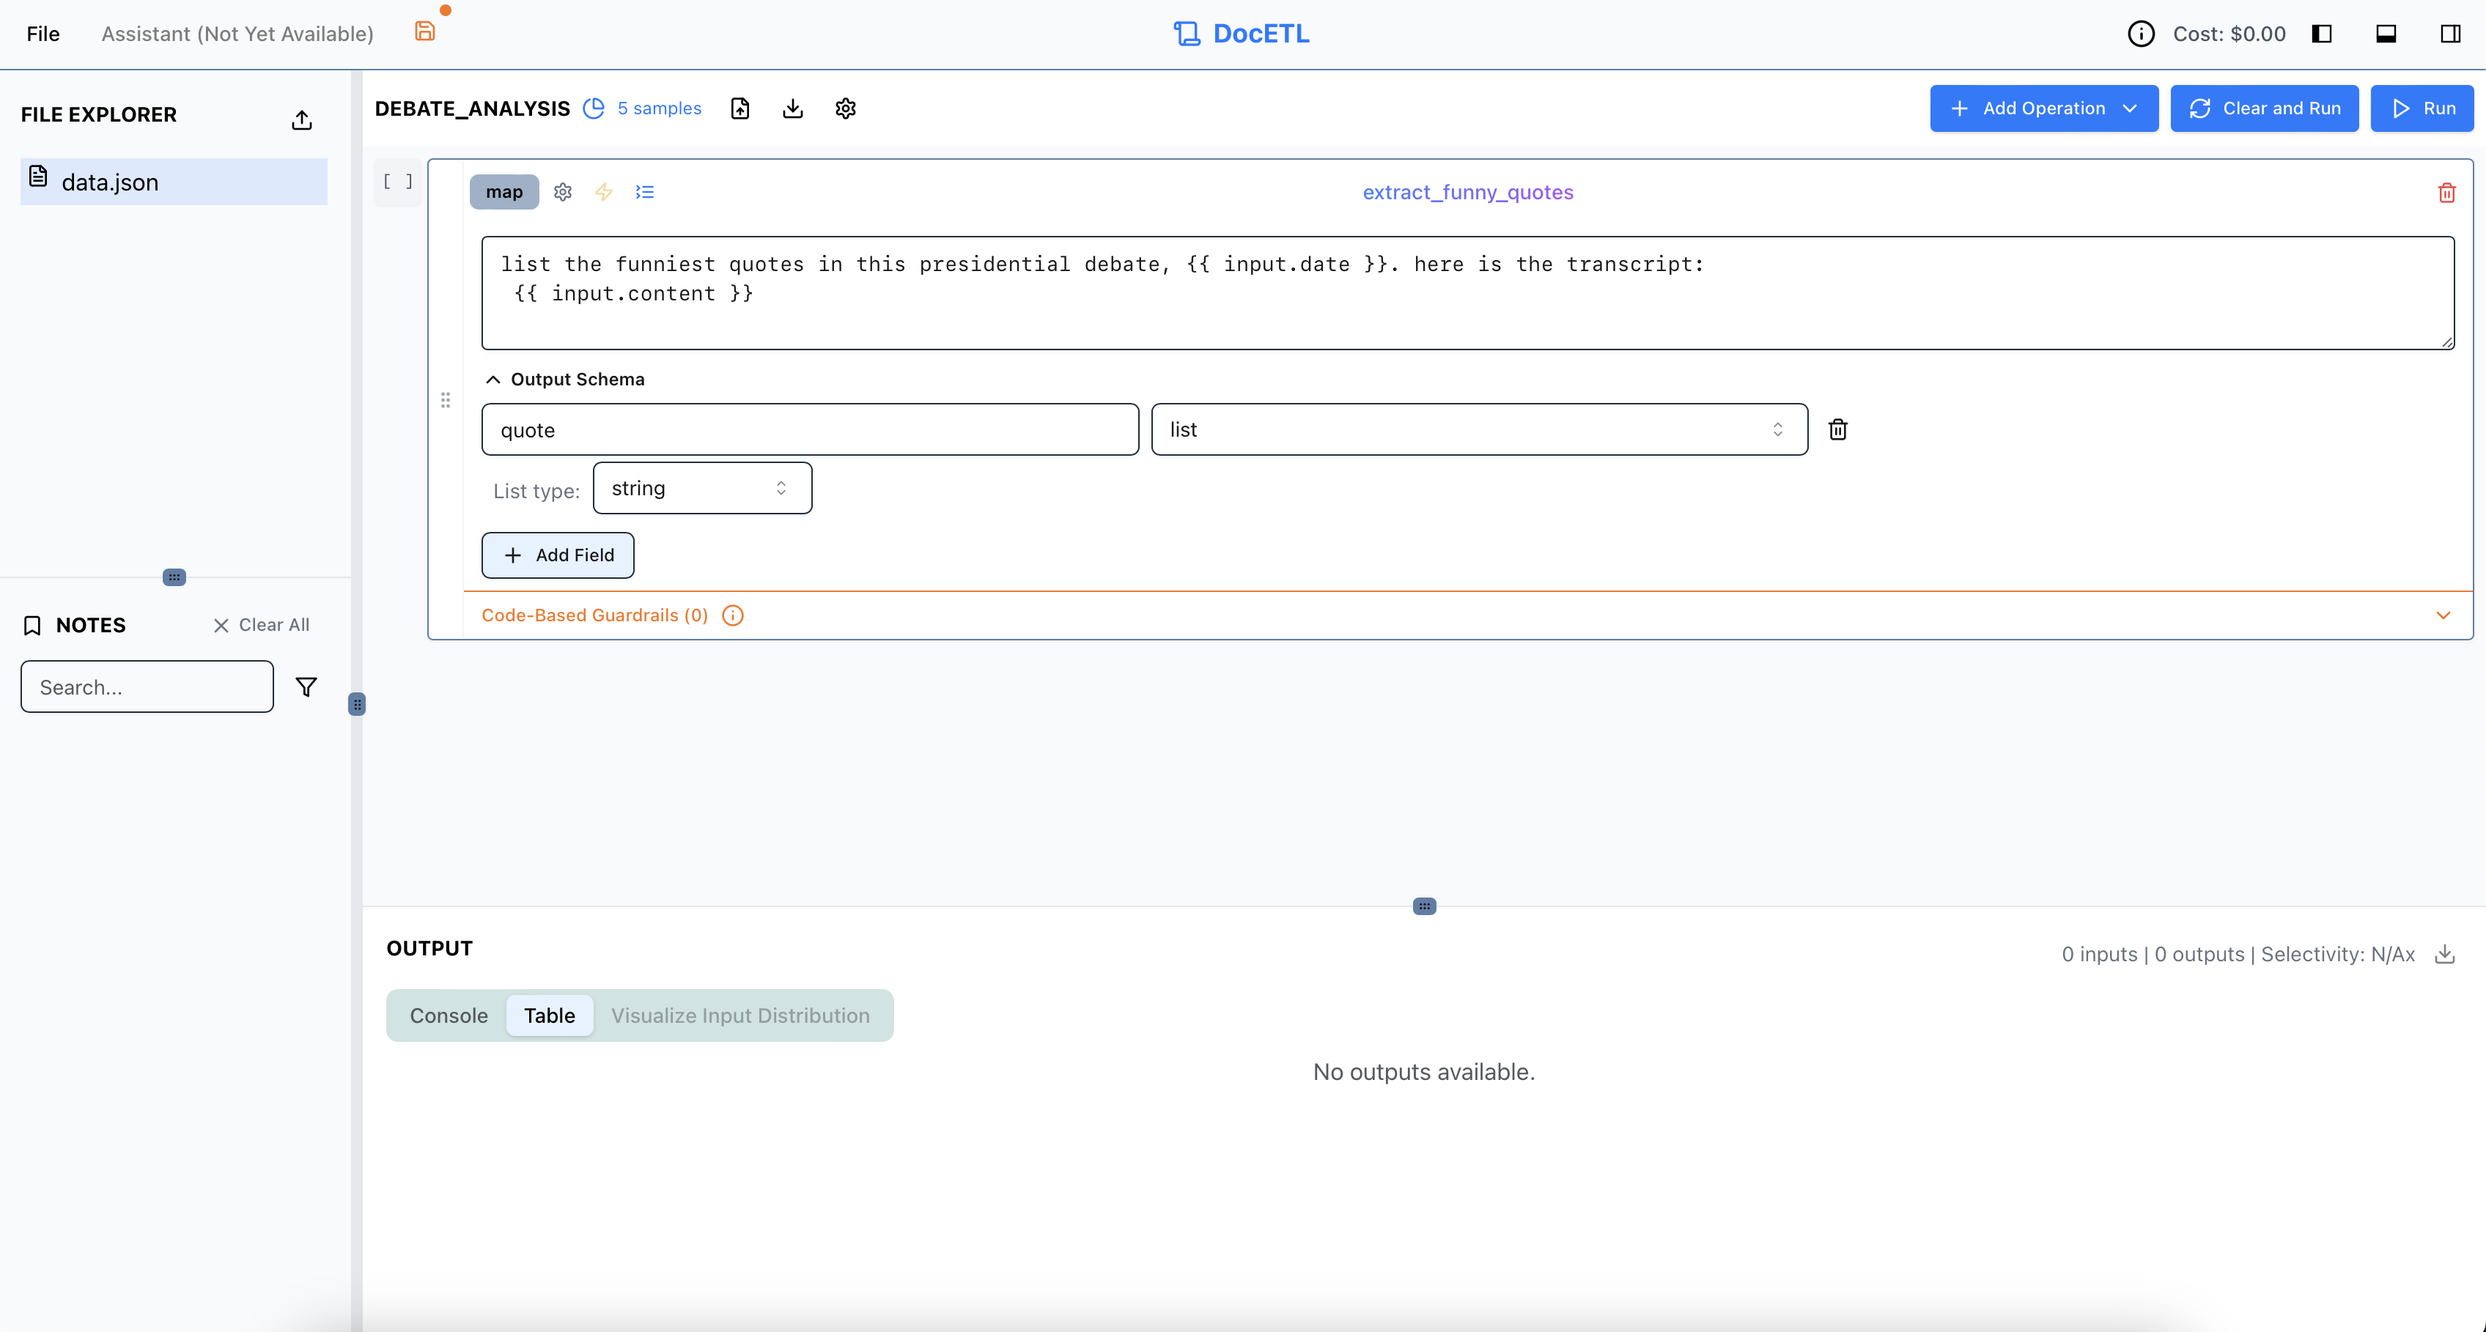
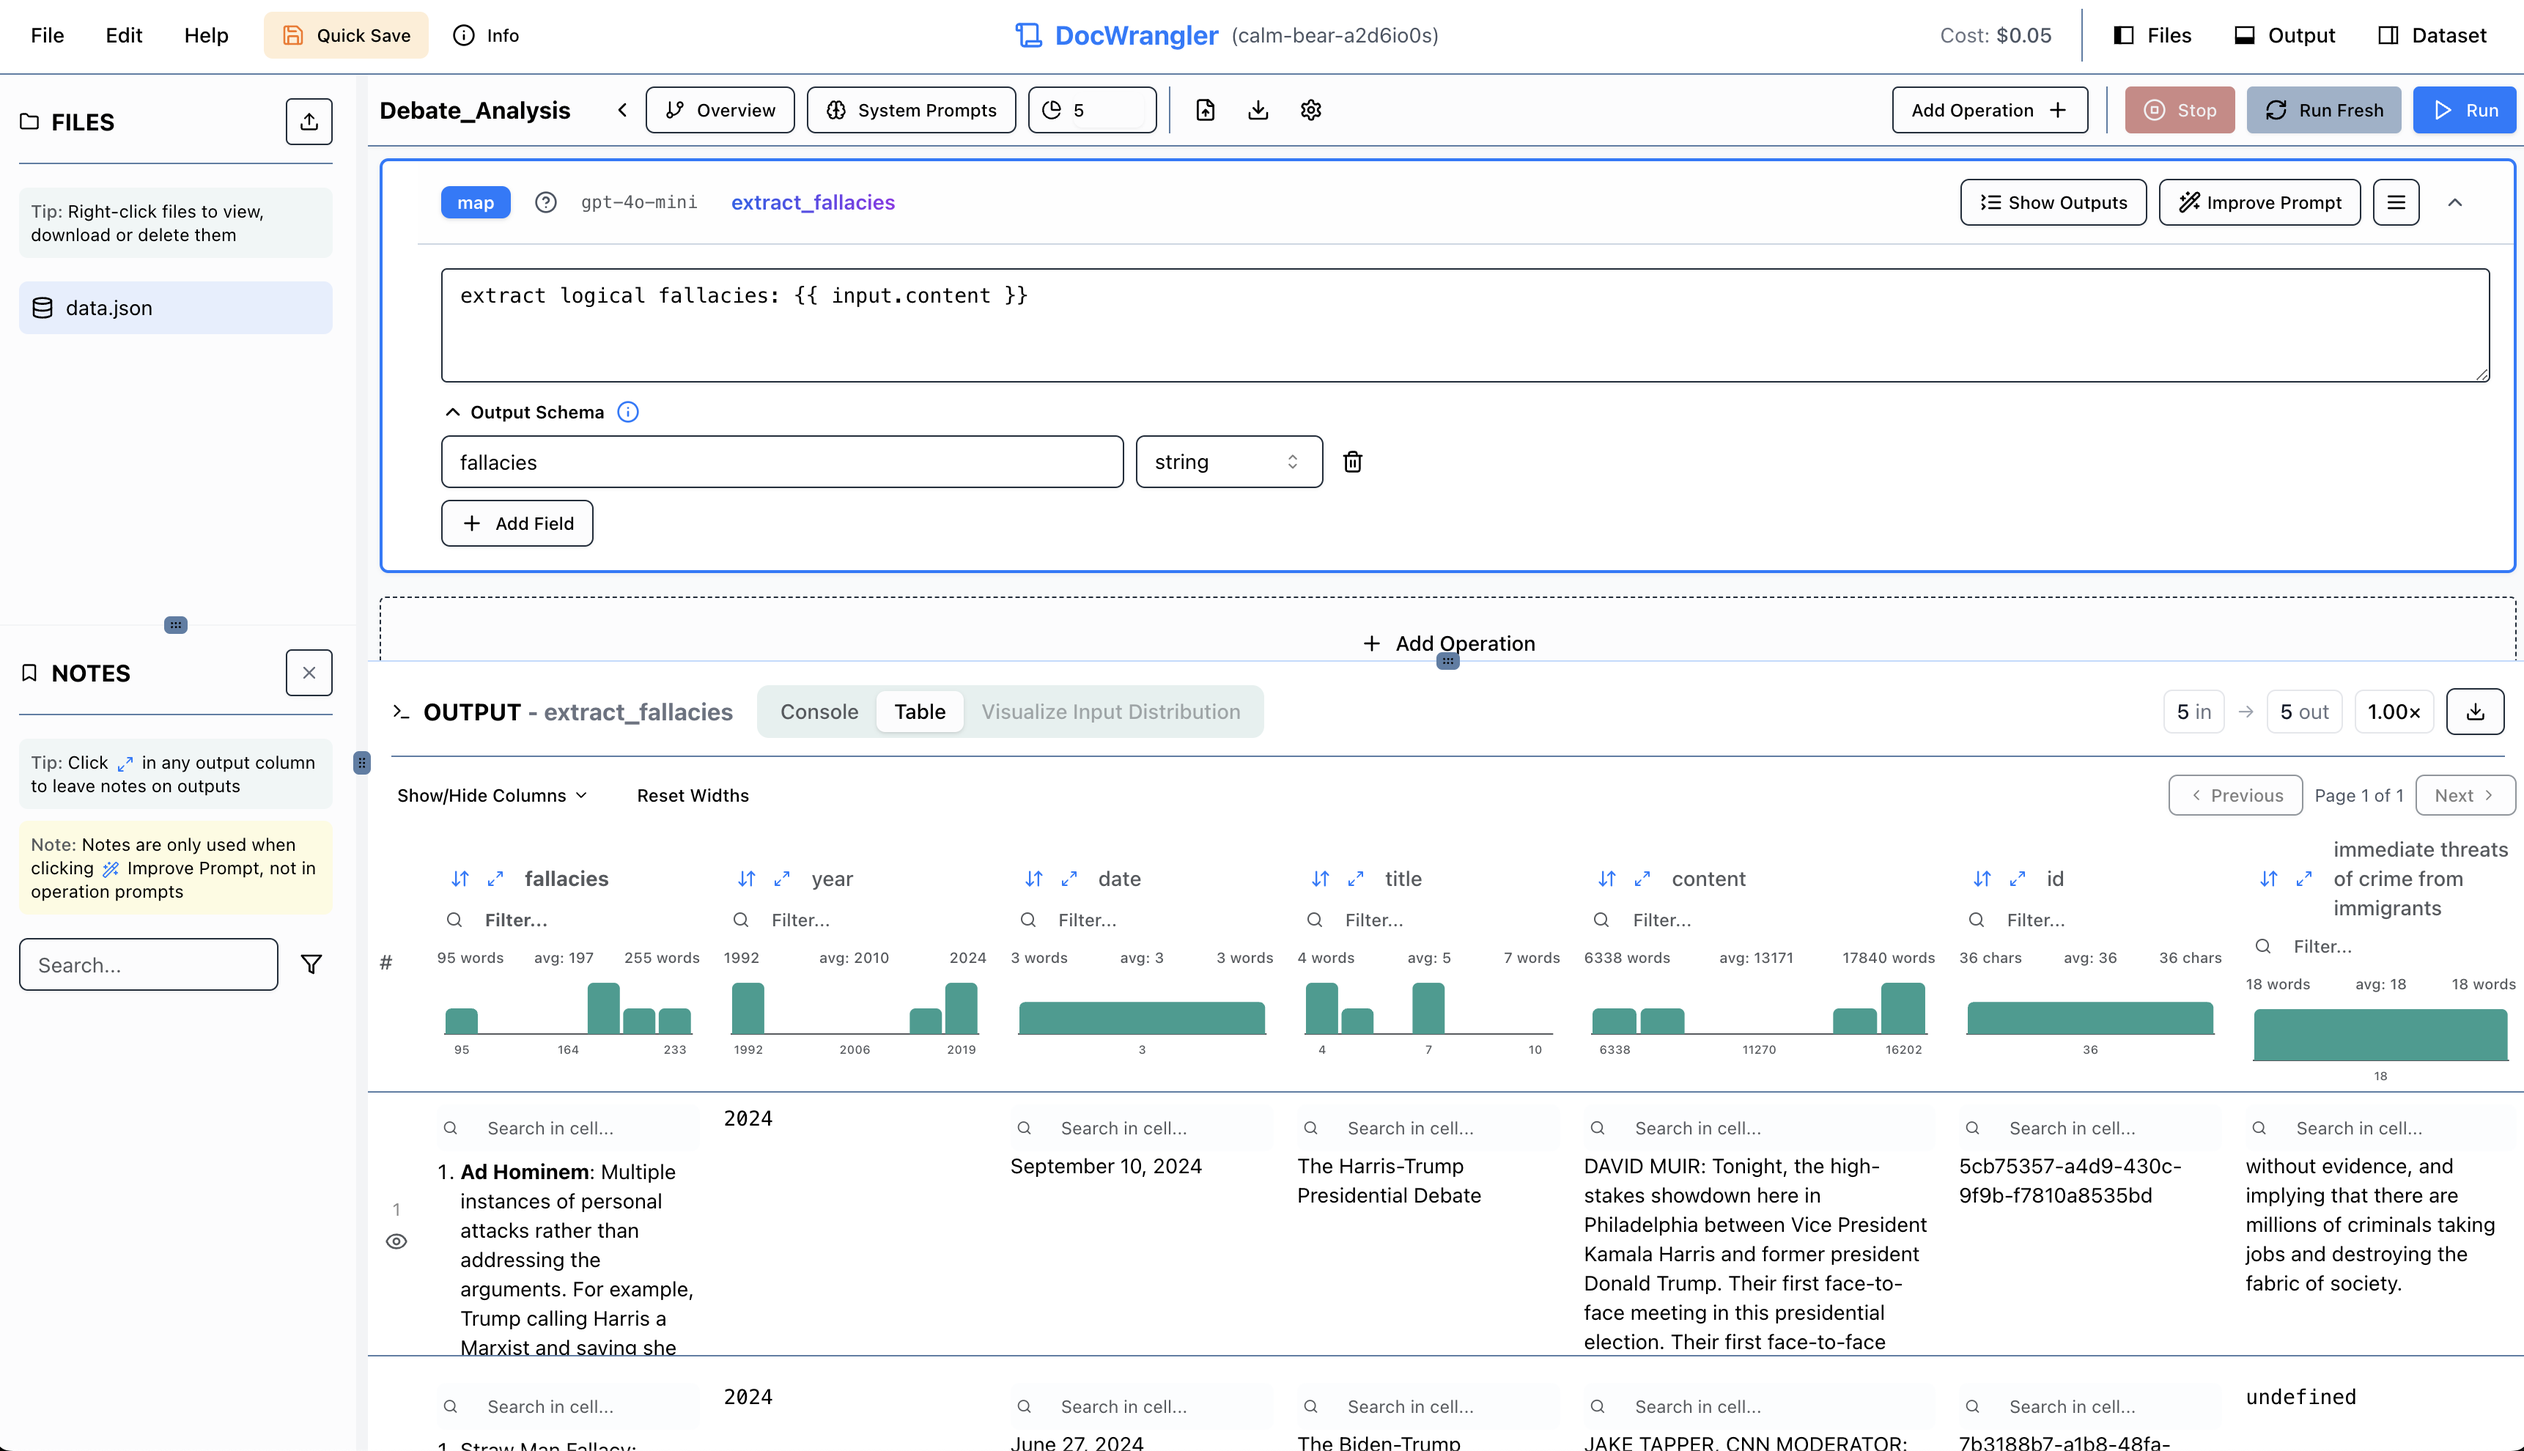
docs: update playground docs

diff --git a/docs/playground/tutorial.md b/docs/playground/tutorial.md
@@ -17,19 +17,11 @@ You can view the data by clicking the "toggle dataset view" button in the top ri
 
 ![Dataset View](../../assets/tutorial/dataset-view.png)
 
-## Step 2: Examine the Example Operation
+## Step 2: Add a Map Operation
 
-You'll notice there's already an example operation called `extract_funny_quotes`. This is a Map operation that processes each debate transcript to extract funny or memorable quotes.
+The pipeline is set to run on a sample of 5 documents, as indicated by the sample icon next to the pipeline name. This sampling helps us quickly test and iterate on our prompts without processing the entire dataset. This can be changed.
 
-The pipeline is set to run on a sample of 5 documents, as indicated by the sample icon next to the pipeline name. This sampling helps us quickly test and iterate on our prompts without processing the entire dataset.
-
-To adjust the sample size or change other pipeline settings like the default language model:
-
-1. Click the gear (⚙) button next to the pipeline name
-2. Modify the sample size or other settings as needed
-3. Save your changes
-
-If you expand the operation details, you'll see the output schema is configured to produce a list of quote strings.
+We'll add a map operation that processes each debate transcript to extract logical fallacies. Click the "Add Operation" button in the top right corner of the screen, and select "Map" under the LLM section. You can set the operation name to "extract_fallacies", and write a prompt and output schema. 
 
 ![Operation Details](../../assets/tutorial/operation-details.png)
 
@@ -40,27 +32,36 @@ Click the "Run" button to execute the pipeline. The outputs panel will show two 
 - **Console**: Displays progress information and any potential errors
 - **Table**: Shows the extracted funny quotes from each document in a table, as well as the other key/value pairs in the document. Here's what the table looks like after running the pipeline:
 
-![Pipeline Outputs](../../assets/tutorial/initial-quotes.png)
+![Pipeline Outputs](../../assets/tutorial/initial-outputs.png)
 
 You can resize the rows and columns in the table by clicking and dragging the edges of the table cells, as in the image above. You can also rezise the outputs panel by clicking and dragging the top edge of the panel.
 
 ## Step 4: Iterate on the Prompt
 
-After reviewing the initial outputs, we might want to improve the results. For example, maybe we want more context around each quote to better understand why it's funny or memorable.
+After reviewing the initial outputs, let's inspect them row by row to identify areas for improvement. Click the expand icon next to any column to see the full content.
 
-We can modify the prompt to request additional context. Click on the operation to edit its prompt, adding instructions like:
+We can modify the prompt to request additional context based on what we observe in the data. Here are some general patterns that could use improvement:
 
-- Include a brief explanation of why each quote is funny/memorable
-- Add surrounding context from the debate
-- Note which candidates were involved
+- Some quotes lack sufficient background context
+- Speaker information could be more detailed
+- The reasoning behind why quotes are memorable isn't always clear
+- Time and setting details are often missing
+- Impact and reactions to quotes aren't consistently captured
 
-Each time you modify the prompt, you can quickly test it on the sample documents to see if the results improve. Here's an example of what the outputs might look like after modifying the prompt:
+Here's an example of what giving notes might look like:
 
-![Modified Quotes](../../assets/tutorial/v2-quotes.png)
+![Feedback](../../assets/tutorial/add-notes.png)
 
-Remember to save your progress using the save button in the top left corner! This will save the current state of the pipeline, including any changes you've made to the prompt or other settings, such that if you refresh the page, you'll still see the same pipeline and results.
+Once you've added enough notes (3-5 or more), you can click on the "Improve Prompt" button in the top right corner of the operation card. This will invoke the DocWrangler Prompt Improvement Assistant, which will suggest edits to your prompt:
+
+![Prompt Improvement](../../assets/tutorial/prompt-improvement.png)
+
+Once you're satisfied with the new prompt, click "Save" to update the operation, and then you can rerun the pipeline to see the new outputs.
+
+![Prompt v2](../../assets/tutorial/prompt-v2.png)
 
 !!! note "Caching Behavior"
+
     DocETL automatically caches the outputs of each operation. This means that if you run the pipeline multiple times without changing the operations, it will use the cached results instead of reprocessing the documents. This is especially helpful when:
 
     - Iterating on downstream operations in a multi-step pipeline
@@ -71,26 +72,12 @@ Remember to save your progress using the save button in the top left corner! Thi
 
     If you want to bypass the cache and force recomputation, you can click the "Clear and Run" button instead of the regular "Run" button.
 
-!!! tip "Taking Notes"
-    You can highlight any text in the outputs panel to save it as a note. This is useful for:
-    
-    - Marking interesting quotes or patterns you want to revisit
-    - Collecting examples of where the prompt works well (or needs improvement)
-    
-    Selected text will be saved to the Notes panel, which you can access by clicking the "Notes" tab in the outputs section. Notes persist to local storage, so they will be available the next time you visit the playground. 
-    
-    We are also working on the Assistant, which will use notes to steer your operation prompts towards better results.
-
-
 
 ## Step 5: Run the Pipeline on the Entire Dataset
 
 Once you're satisfied with your prompt, you can run the pipeline on the entire dataset. First, clear the sample size by clicking on the settings or gear icon next to the pipeline name. 
 
-Then, click the "Run" button again. This will process all documents and update the outputs panel with the results. Here's what the outputs might look like after running the pipeline on the full dataset (the console view and table view are shown below):
-
-![Full Dataset Console](../../assets/tutorial/console.png)
-![Full Dataset Outputs](../../assets/tutorial/all-outputs.png)
+Then, click the "Run" button again. This will process all documents and update the outputs panel with the results. 
 
 You can export the results to a CSV file by clicking the "download" button in the top right corner of the outputs panel, near where it says "Selectivity: 1.00x". The selectivity is the ratio of the number of documents in the output to the number of documents in the input for that operation. In this case, since we ran the pipeline on the full dataset, the selectivity is 1.0x.
 

diff --git a/README.md b/README.md
@@ -29,16 +29,16 @@ DocETL is a tool for creating and executing data processing pipelines, especiall
 
 There are two main ways to use DocETL:
 
-### 1. 🎮 Interactive UI Playground (Recommended for Development)
+### 1. 🎮 DocWrangler, the Interactive UI Playground (Recommended for Development)
 
-The [UI Playground](https://ucbepic.github.io/docetl/playground/) helps you iteratively develop your pipeline:
+[DocWrangler](https://docetl.org/playground) helps you iteratively develop your pipeline:
 - Experiment with different prompts and see results in real-time
 - Build your pipeline step by step
 - Export your finalized pipeline configuration for production use
 
-![DocETL Playground](docs/assets/tutorial/playground-screenshot.png)
+![DocWrangler](docs/assets/tutorial/one-operation.png)
 
-To run the playground locally, you can either:
+DocWrangler is hosted at [docetl.org/playground](https://docetl.org/playground). But to run the playground locally, you can either:
 - Use Docker (recommended for quick start): `make docker`
 - Set up the development environment manually
 
@@ -63,13 +63,13 @@ OPENAI_API_KEY=your_api_key_here  # Required for LLM operations (or the key for 
 
 To see examples of how to use DocETL, check out the [tutorial](https://ucbepic.github.io/docetl/tutorial/).
 
-### 2. 🎮 UI Playground Setup
+### 2. 🎮 DocWrangler Setup
 
-To run the UI playground locally, you have two options:
+To run DocWrangler locally, you have two options:
 
 #### Option A: Using Docker (Recommended for Quick Start)
 
-The easiest way to get the playground running:
+The easiest way to get the DocWrangler playground running:
 
 1. Create the required environment files:
 

diff --git a/website/README.md b/website/README.md
@@ -1,4 +1,4 @@
-This is a [Next.js](https://nextjs.org) project bootstrapped with [`create-next-app`](https://nextjs.org/docs/app/api-reference/cli/create-next-app).
+This is a [Next.js](https://nextjs.org) project bootstrapped with [`create-next-app`](https://nextjs.org/docs/app/api-reference/cli/create-next-app). This is DocWrangler, the frontend for DocETL.
 
 ## Getting Started
 
